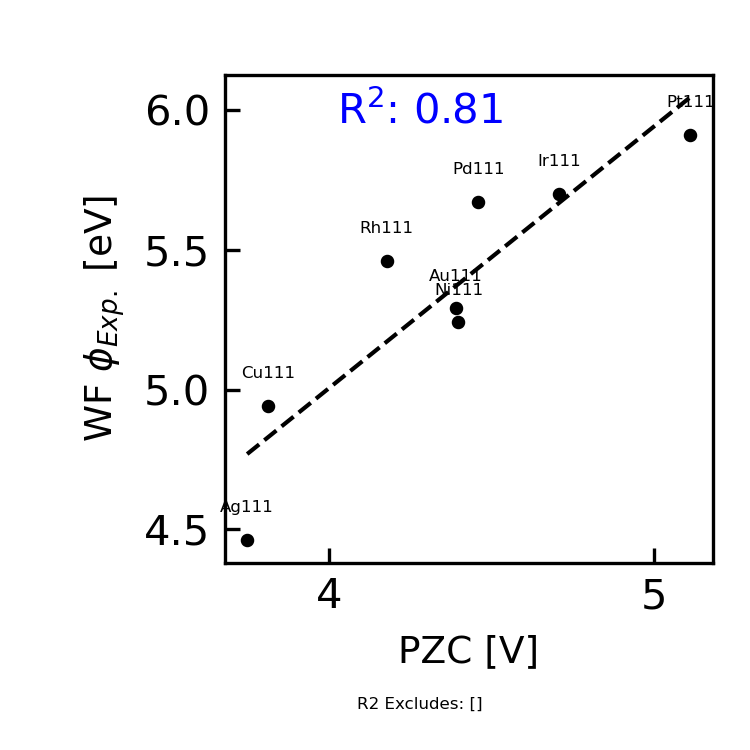
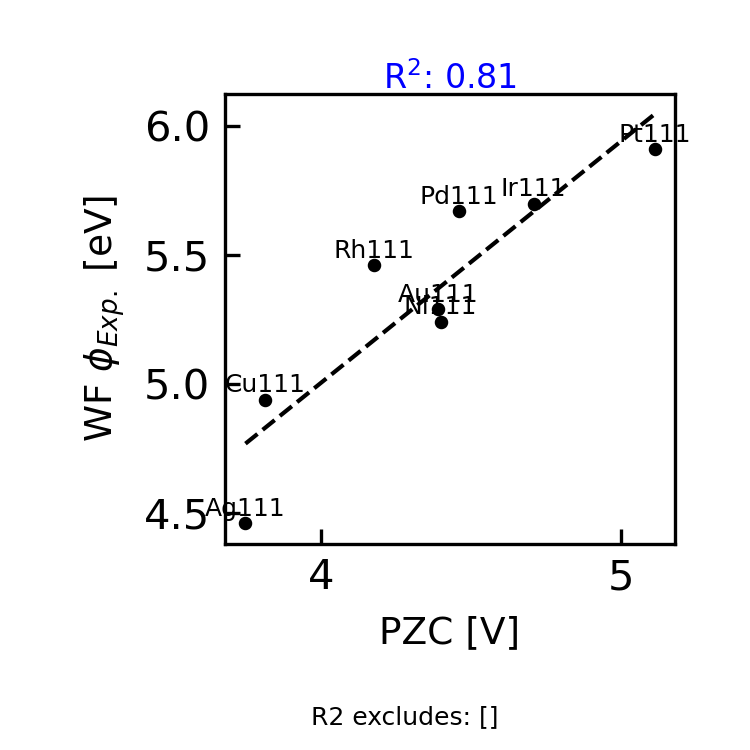
update

diff --git a/Figures/Simiam/plot_Y_vs_X_her.py b/Figures/Simiam/plot_Y_vs_X_her.py
@@ -86,7 +86,7 @@ def plot_scatter(xvals, yvals,metals,terminations, xlabel, ylabel,xkey,ykey) :
     #print('{} {} {} {} {} {} {} {}'.format( spin,mtag,dindex,site,zval,xkey,ykey,adsorbate))
     print('plotting y {} vs x {} '.format( ykey,xkey))
 
-    lrbt=[0.3,0.95,0.2,0.95]
+    lrbt=[0.3,0.9,0.2,0.95]
     rcParams['figure.subplot.left'] = lrbt[0]  
     rcParams['figure.subplot.right'] = lrbt[1] 
     rcParams['figure.subplot.bottom'] = lrbt[2]
@@ -119,9 +119,9 @@ def plot_scatter(xvals, yvals,metals,terminations, xlabel, ylabel,xkey,ykey) :
 
         ax.scatter(xvals, yvals,s=5, color='black')
         
-        arsize=4
+        arsize=6
         #dx,dy=(0.1,0.01)
-        dx,dy=(0.0,0.1)
+        dx,dy=(0.0,0.03)
         
         for i in range(xvals.shape[0]):
             ax.annotate('{}{}'.format(metals[i],terminations[i]), xy=(xvals[i]+dx,yvals[i]+dy),
@@ -162,11 +162,13 @@ def plot_scatter(xvals, yvals,metals,terminations, xlabel, ylabel,xkey,ykey) :
             print('intercept:', LR.intercept_)
             print('slope:', LR.coef_)
             stringlabel=r'R$^2$:'+' {}'.format(round(r_sq,2))
-            r2duplet=(0.4,0.9)
+            #r2duplet=(0.85,0.9)
+            r2duplet=(0.5,1.01)
+            fsize = 8 #arsize
             ax.annotate('{}'.format(stringlabel), xy=r2duplet,ha='center',
                             xycoords = ('axes fraction'), 
                             textcoords=('axes fraction'),
-                            color="blue",annotation_clip=False)     
+                            color="blue",fontsize=fsize,annotation_clip=False)     
             #plot the linear fit please:
             sorted_xvals = np.sort( np.array([xvals[i][0] for i in subset])).reshape(-1, 1)
             print('xvals {}'.format(xvals))
@@ -175,8 +177,8 @@ def plot_scatter(xvals, yvals,metals,terminations, xlabel, ylabel,xkey,ykey) :
             y_pred = LR.predict(sorted_xvals)
             ax.plot(sorted_xvals,y_pred,lw=1, linestyle='--',color='black',zorder=0 )
                     
-            capcoord=(0.40,-0.3)
-            ax.annotate('R2 Excludes: {}'.format(excluded_from_regression), xy=capcoord,ha='center', fontsize=arsize,
+            capcoord=(0.40,-0.4)
+            ax.annotate('R2 excludes: {}'.format(excluded_from_regression), xy=capcoord,ha='center', fontsize=arsize,
                                 xycoords = ('axes fraction'), textcoords=('axes fraction') ,color="k",annotation_clip=False)                      
         
         if PDregression:
@@ -235,22 +237,27 @@ if __name__ == "__main__":
         terminations.append(termination)
 
 
-    for ykey in ['i0','PZC','vac_Htop','vac_HBE','WF']: 
-        for xkey in ['vac_HBE','PZC','vsquaredREL','WF', 'dbandcenter','dbandupperedge']:  
+    for ykey in ['i0','PZC','vac_Htop','vac_HBE','WF','Htop-Hfcc']: 
+        for xkey in ['Htop-Hfcc','vac_HBE','vac_Htop','PZC','vsquaredREL','WF', 'dbandcenter','dbandupperedge']:  
         #,'dbandcenter','dbandupperedge','vsquaredREL']: 
         
             if ykey == 'i0':
                 yvals= np.array(  [df.loc[ df['metal'] == metal, ykey]  for metal in metals ] )
-                ylabel=r'log($|j_0|$/(mA cm$^{-2}$))'#   i0s [TOF]d-band upper edge (maj.spin.) [eV]'
+                ylabel=r'log($|j_0|$/(mA cm$^{-2}$))'
             elif ykey == 'PZC':
                 yvals= np.array(  [df.loc[ df['metal'] == metal, ykey]  for metal in metals ] )
-                ylabel=r'PZC [V]'#   i0s [TOF]d-band upper edge (maj.spin.) [eV]'
+                ylabel=r'PZC [V]'
             elif ykey == 'vac_Htop':
                 yvals= np.array(  [df.loc[ df['metal'] == metal, ykey]  for metal in metals ] )
-                ylabel=r'vac Htop [eV]'#   i0s [TOF]d-band upper edge (maj.spin.) [eV]'
+                ylabel=r'$\Delta$E$_{\text{Htop}}$ (vac) [eV]'
             elif ykey == 'vac_HBE':
                 yvals= np.array(  [df.loc[ df['metal'] == metal, ykey]  for metal in metals ] )
-                ylabel=r'vac HBE [eV]'#   i0s [TOF]d-band upper edge (maj.spin.) [eV]'
+                ylabel=r'$\Delta$E$_{\text{Hfcc}}$ (vac) [eV]'
+            elif ykey == 'Htop-Hfcc':
+                htops= np.array(  [df.loc[ df['metal'] == metal, 'vac_Htop']  for metal in metals ] )
+                hfccs= np.array(  [df.loc[ df['metal'] == metal, 'vac_HBE']  for metal in metals ] )
+                yvals = htops - hfccs
+                ylabel=r'$\Delta$E$_{\text{Htop}}$ - $\Delta$E$_{\text{Hfcc}}$ [eV]'
             
             elif ykey == 'WF':   
                 ylabel=r'WF $\phi_{Exp.}$ [eV]'
@@ -266,7 +273,7 @@ if __name__ == "__main__":
         
             elif ykey == 'dbandupperedge':   
                 yvals= np.array(  [TM.loc[ TM['metal'] == metal, ykey]  for metal in metals ] )
-                ylabel=r'd-band upper edge (maj.spin.) [eV]'
+                ylabel=r'$\epsilon_d$ upper edge(maj.spin)[eV]'
             
             elif ykey == 'vsquaredREL':
                 yvals  = np.array(  [TM.loc[ TM['metal'] == metal, ykey]  for metal in metals ] )
@@ -286,7 +293,15 @@ if __name__ == "__main__":
                 xvals=WF
             elif xkey == 'vac_HBE':
                 xvals= np.array(  [df.loc[ df['metal'] == metal, xkey]  for metal in metals ] )
-                xlabel=r'vac HBE [eV]'#   i0s [TOF]d-band upper edge (maj.spin.) [eV]'
+                xlabel=r'$\Delta$E$_{\text{Hfcc}}$ (vac) [eV]'
+            elif xkey == 'vac_Htop':
+                xvals= np.array(  [df.loc[ df['metal'] == metal, xkey]  for metal in metals ] )
+                xlabel=r'$\Delta$E$_{\text{Htop}}$ (vac) [eV]'
+            elif xkey == 'Htop-Hfcc':
+                htops= np.array(  [df.loc[ df['metal'] == metal, 'vac_Htop']  for metal in metals ] )
+                hfccs= np.array(  [df.loc[ df['metal'] == metal, 'vac_HBE']  for metal in metals ] )
+                xvals = htops - hfccs
+                xlabel=r'$\Delta$E$_{\text{Htop}}$ - $\Delta$E$_{\text{Hfcc}}$ [eV]'
             
             elif xkey == 'dbandcenter': 
                 xvals  = np.array(  [TM.loc[ TM['metal'] == metal, xkey]  for metal in metals ] )
@@ -294,14 +309,14 @@ if __name__ == "__main__":
         
             elif xkey == 'dbandupperedge':   
                 xvals= np.array(  [TM.loc[ TM['metal'] == metal, xkey]  for metal in metals ] )
-                xlabel=r'd-band upper edge (maj.spin) [eV]'
+                xlabel=r'$\epsilon_d$ upper edge(maj.spin)[eV]'
             
             elif xkey == 'vsquaredREL':
                 xvals  = np.array(  [TM.loc[ TM['metal'] == metal, xkey]  for metal in metals ] )
-                xlabel=r'V$_{ad}^2$ [Rel. Cu]' #eV$^2$]'
+                xlabel=r'V$_{ad}^2$ [Rel. Cu]' 
             elif xkey == 'PZC':
                 xvals= np.array(  [df.loc[ df['metal'] == metal, xkey]  for metal in metals ] )
-                xlabel=r'PZC [V]'#   i0s [TOF]d-band upper edge (maj.spin.) [eV]'
+                xlabel=r'PZC [V]'
             
                 
           #  #what is PCA using 2-dimensions??

diff --git a/Figures/Simiam/parse_tafel_traj_barriers.py b/Figures/Simiam/parse_tafel_traj_barriers.py
@@ -1,6 +1,6 @@
 """
 
-PARSING Tafel barriers from vaccuum vs. aqueous trajectories
+Parse Tafel barriers from vacuum vs. aqueous trajectories
 
 """
 
@@ -55,7 +55,7 @@ if __name__ == "__main__":
     """
 
 
-    cluster = 'Laptop_Simiam'
+    cluster = 'Laptop'
     #cluster = 'Niflheim'
 
     metals = metals_all
@@ -71,7 +71,7 @@ if __name__ == "__main__":
         
             if cluster=='Niflheim':
                 trunk='/home/cat/dmapa/gpaw/dissads/tree/endstates/BEEF-{}/H2/doNEB/'.format(metal)
-            elif cluster=='Laptop_Simiam':  #traj files are elsewhere.
+            elif cluster=='Laptop':  #traj files are elsewhere.
                 trunk='/Users/sangh/software/her-scripts/dissads/tree/endstates/BEEF-{}/H2/doNEB/'.format(metal)
             trajfile = 'final_path.traj'
             fname = trunk+trajfile
@@ -117,7 +117,7 @@ if __name__ == "__main__":
                
                 if cluster=='Niflheim':
                     trunk='/home/cat/dmapa/gpaw/alkalinebarriers/{}/{}/{}/pot_{}/'.format(reaction,metal,termination, pot)
-                elif cluster=='Laptop_Simiam': #traj files are elsewhere.
+                elif cluster=='Laptop': #traj files are elsewhere.
                     #trunk='../alkalinebarriers/{}/{}/{}/pot_{}/'.format(reaction,metal,termination, pot)
                     trunk='/Users/sangh/software/her-scripts/alkalinebarriers/{}/{}/{}/pot_{}/'.format(reaction,metal,termination, pot)
                 

diff --git a/Figures/Simiam/plot_vacuum_barrier_vs_X.py b/Figures/Simiam/plot_vacuum_barrier_vs_X.py
@@ -262,7 +262,7 @@ if __name__ == "__main__":
                 #load vacuum barriers.
                 filename='CSV/parsed_vacuum_tafel_barriers.csv'
                 dfB = pd.read_csv(filename)
-                print('Vacuum barriers, parsed by Simiam, in dataframe:')
+                print('Vacuum barriers, parsed, in dataframe:')
                 print('{}'.format(dfB))
                 vac_barriers = np.array( [ float(dfB.loc[ dfB['metal'] == metal, 'vacBarrier'].iloc[0])  for metal in metals ] )
                 yvals = vac_barriers
